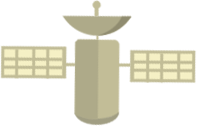
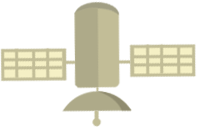
give vertical flip to resource

diff --git a/SpaceDebrisProject/Satellite.m b/SpaceDebrisProject/Satellite.m
@@ -22,7 +22,7 @@
     if (!self) return nil;
     
     self.shoot = NO;
-    self.battery = 100.0;
+    self.battery = 500.0;
     self.energyDrain = 1.0;
     self.position = position;
     
